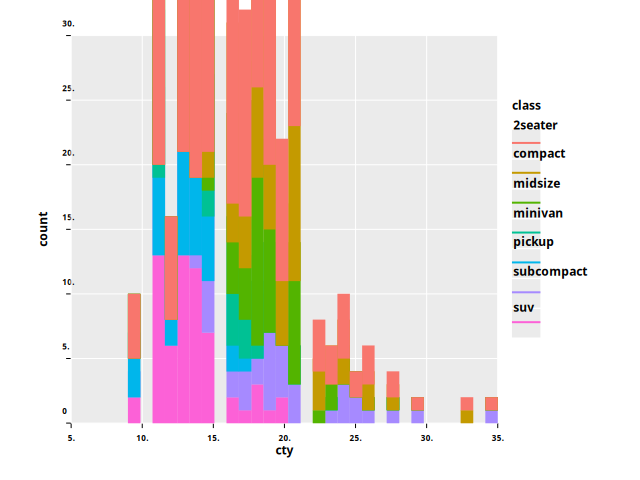
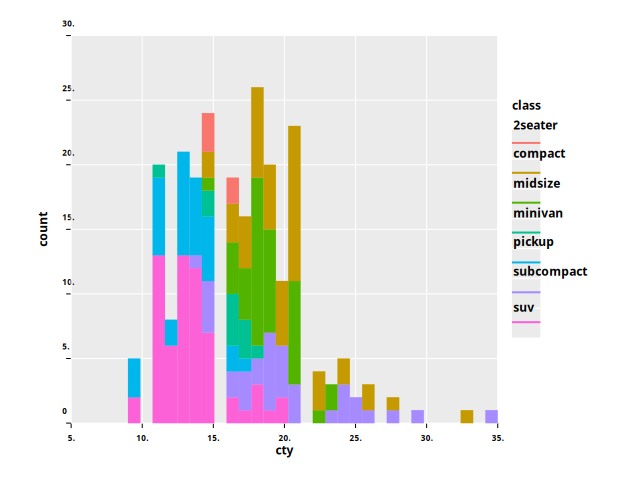
fix geom histogram with fill

diff --git a/src/python_ggplot/gg/geom/utils.py b/src/python_ggplot/gg/geom/utils.py
@@ -187,6 +187,8 @@ def apply_cont_scale_if_any(
             # avoid expensive computation for raster
             if geom_type != GeomType.RASTER:
                 # TODO high priority map_data logic is funny overall, add ignore type for now
+                print(scale)
+                print(scale.map_data)
                 sc_vals = scale.map_data(result_df)
                 result_styles = [change_style(base_style, val) for val in sc_vals]
 
@@ -219,11 +221,13 @@ def add_counts_by_position(
 
 
 def _modify_for_stacking(geom: "Geom") -> bool:
+    if geom.gg_data.position != PositionType.STACK:
+        return False
     is_bar = (
         geom.geom_type == GeomType.HISTOGRAM
         and geom.gg_data.histogram_drawing_style == HistogramDrawingStyle.BARS
     ) or (geom.geom_type == GeomType.BAR)
-    if geom.gg_data.position == PositionType.STACK and not is_bar:
+    if not is_bar:
         return True
     return False
 
@@ -412,6 +416,7 @@ def _filled_bin_geom_map(
     filled_geom: "FilledGeom",
     style: "GGStyle",
 ) -> "FilledGeom":
+    DISABLE_MODIFY_FOR_STACKING = True
     from python_ggplot.gg.styles.utils import apply_style
 
     grouped = df.groupby(filled_stat_geom.map_discrete_columns, sort=True)  # type: ignore TODO
@@ -434,19 +439,24 @@ def _filled_bin_geom_map(
         )
 
         count_col = filled_stat_geom.count_col()  # type: ignore
-        yield_df = pd.DataFrame(
-            {filled_stat_geom.x.get_col_name(): bins, count_col: hist}
-        )
+        yield_df = pd.DataFrame({
+            filled_stat_geom.x.get_col_name(): bins,
+            count_col: hist
+        })
 
         if filled_stat_geom.geom.gg_data.position == PositionType.STACK:
             yield_df[PREV_VALS_COL] = col if len(col) > 0 else 0.0
 
         col = add_counts_by_position(
-            col, pd.Series(hist), filled_stat_geom.geom.gg_data.position
+            col, hist, filled_stat_geom.geom.gg_data.position
         )
-        col = col.to_numpy()
 
-        if _modify_for_stacking(filled_stat_geom.geom):
+        # TODO CRITICAL+
+        # This does what was intented, it adds the previous values to the current
+        # if previous his is 10,10 and current is 0,1, we end up with 10, 11
+        # the issue is this eventually draws 10 + 10 instead of 10 + 0
+        # revisit this later, for now disable
+        if _modify_for_stacking(filled_stat_geom.geom) and not DISABLE_MODIFY_FOR_STACKING:
             yield_df[filled_geom.gg_data.y_col] = col
 
         yield_df = filled_geom.maybe_filter_unique(yield_df)
